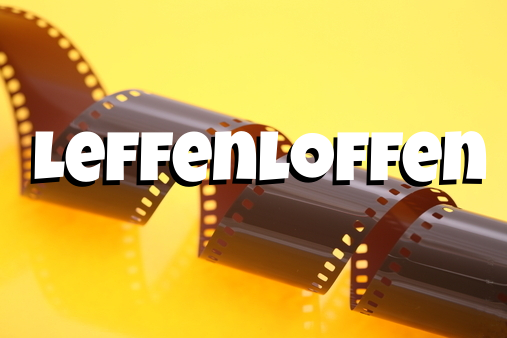
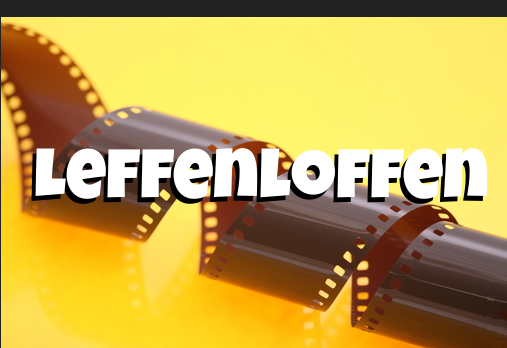
0.72 beta

diff --git a/app/index.html b/app/index.html
@@ -33,7 +33,7 @@
 
     <!-- Add your site or application content here -->
     <div class="header" ng-controller="MainCtrl">
-      <div class="navbar navbar-inverse navbar-static-top" role="navigation">
+      <div class="navbar navbar-inverse navbar-fixed-top" role="navigation">
         <div class="container">
           <div class="navbar-header">
 
@@ -44,8 +44,6 @@
               </button>
               <ul class="dropdown-menu">
                 <li><a href="#/about"><span class="glyphicon glyphicon-info-sign"></span> Tietoa</a></li>
-                <hr>
-                <li><a href="#"><span class="glyphicon glyphicon-off"></span> Poistu</a></li>
               </ul>
             </div>
           </div>

diff --git a/app/views/main.html b/app/views/main.html
@@ -1,5 +1,5 @@
 <div id="jumbo" class="jumbotron">
-	<br><br><br><br><br><br>
+	<br><br><br><br><br><br><br><br>
 </div>
 
 <div class="container">
